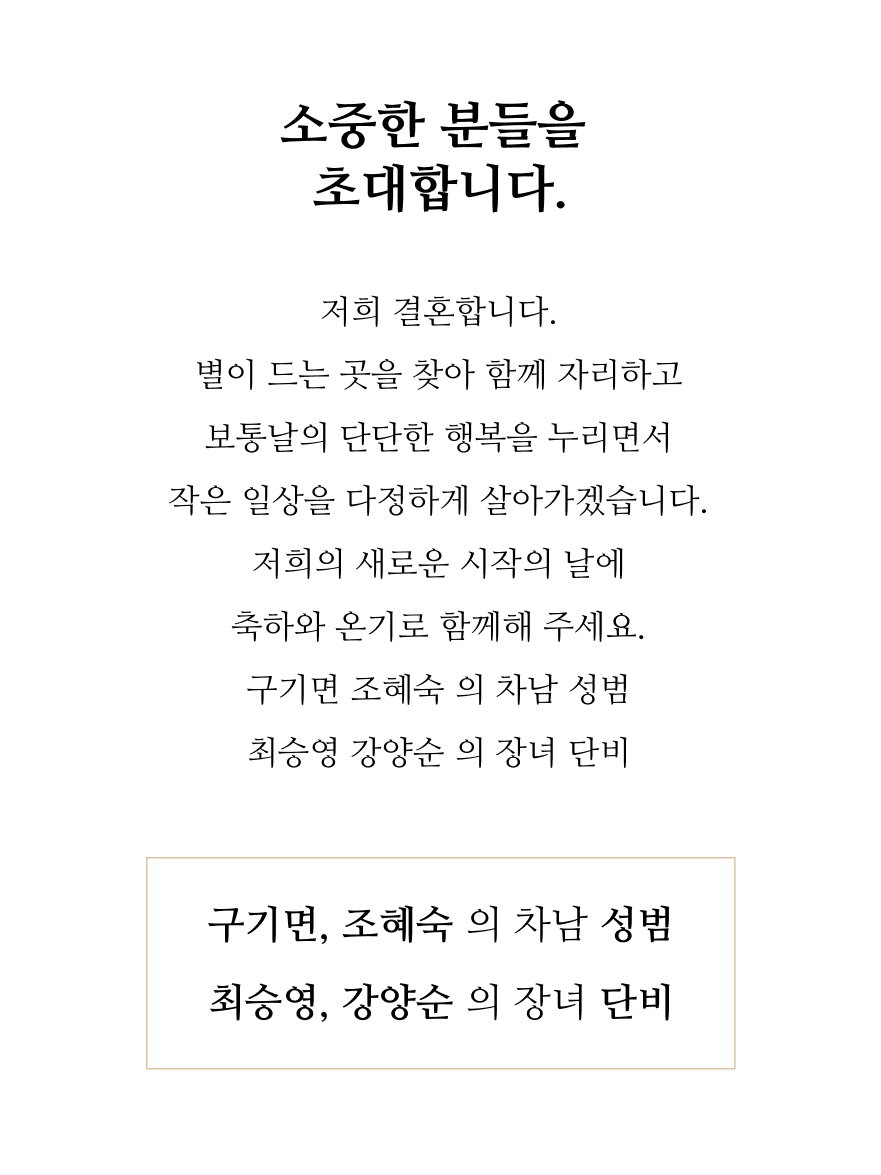
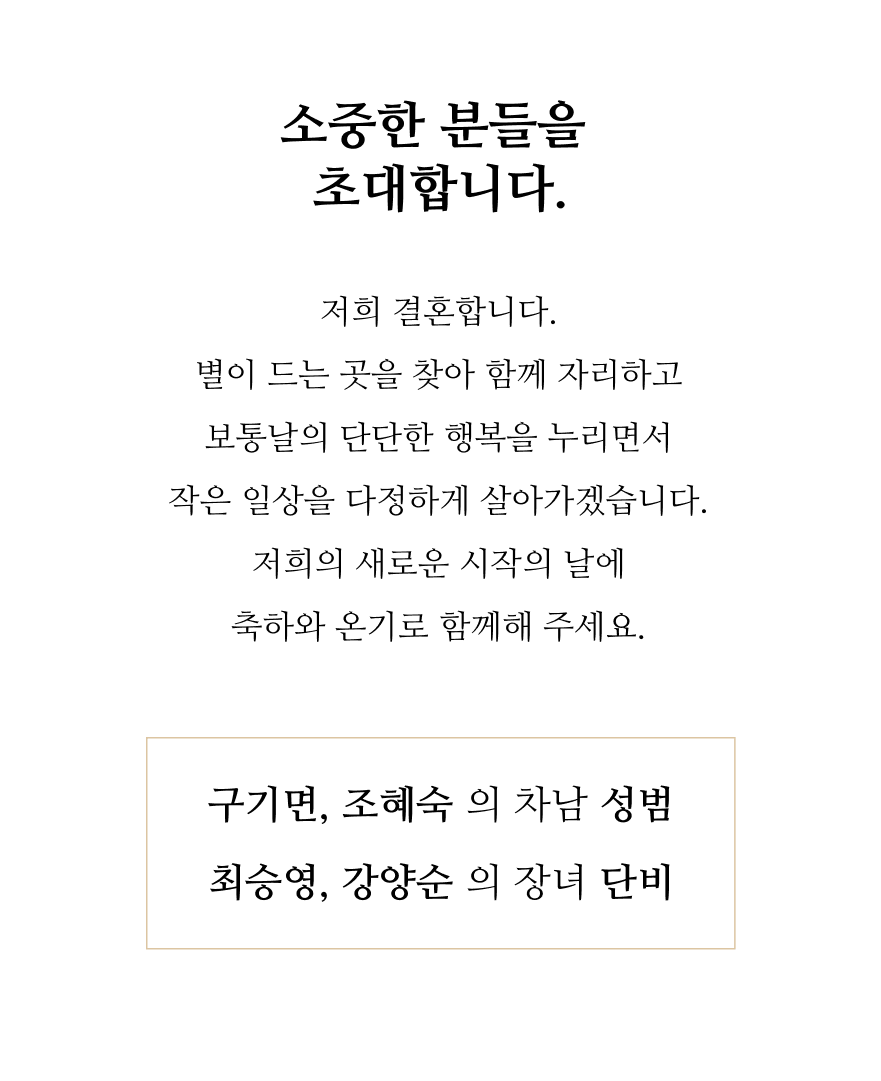
Add files via upload

Changed region(s): [[0.1839, 0.2442, 0.7968, 0.6716], [0.2452, 0.7021, 0.7662, 0.8853], [0.3065, 0.0916, 0.6742, 0.2137]]

diff --git a/index.html b/index.html
@@ -15,12 +15,14 @@
         <img class="img" src="image/section_2.png">
   </div>
     <div class="section_3">
-        <h1 class="title">마음을 전하실 곳</h1>
+        <h1 class="title">축하의 마음을 전하세요.</h1>
         <div class="bank_add_1">
-            <span class="name">구기면</span><button id="copybtn" onclick="copyToClipboard('106-02-065207');"  class="bank">우리은행  106-02-065207</button>
+            <img class="icon" src="image/icon_a.png">
+            <span class="name">신랑측</span><button id="myBtn_1"  class="bank">계좌번호 확인</button>
         </div>
         <div class="bank_add_2">
-            <span class="name">최승영</span><button id="copybtn" onclick="copyToClipboard('352-0119-4825');"  class="bank">농협은행  352-0119-4825</button>
+            <img class="icon" src="image/icon_b.png">
+            <span class="name">신부측</span><button id="myBtn_2"  class="bank">계좌번호 확인</button>
         </div> 
   </div>
     <div class="section">
@@ -45,6 +47,31 @@
         <h1 class="title"><br>오시는 길</h1>
         <img class="map" src="image/map_1.png">
   </div>
+    
+    <!-- The Modal 신랑 -->
+<div id="myModal_1" class="modal">
+  <!-- Modal content -->
+  <div class="modal-content">
+    <span class="close_1">&times;</span>
+      <p class="bank_add_t">신랑측</p>
+    <p class="bank_add_m">우리은행 106-02-065207</p>  
+    <button id="copybtn1" onclick="copyToClipboard('106-02-065207');"  class="bank">계좌번호 복사.</button>
+  </div>
+</div>
+    <!-- The Modal end -->
+    
+    <!-- The Modal 신부 -->
+<div id="myModal_2" class="modal">
+  <!-- Modal content -->
+  <div class="modal-content">
+    <span class="close_2">&times;</span>
+      <p class="bank_add_t">신부측</p>
+    <p class="bank_add_m">농협은행 352-0119-4825</p>
+    <button id="copybtn2" onclick="copyToClipboard('352-0119-4825');"  class="bank">계좌번호 복사.</button>
+  </div>
+</div>
+    <!-- The Modal end -->
+    
     <script>
     function copyToClipboard(val) {
     var t = document.createElement("textarea");
@@ -65,5 +92,66 @@
       alert('352-0119-4825 복사되었습니다');
     });
   </script>
+<script>
+// 신랑Get the modal
+var modala = document.getElementById("myModal_1");
+
+// Get the button that opens the modal
+var btna = document.getElementById("myBtn_1");
+
+// Get the <span> element that closes the modal
+var spana = document.getElementsByClassName("close_1")[0];
+
+// When the user clicks the button, open the modal 
+btna.onclick = function() {
+  modala.style.display = "block";
+}
+
+// When the user clicks on <span> (x), close the modal
+spana.onclick = function() {
+  modala.style.display = "none";
+}
+
+// When the user clicks anywhere outside of the modal, close it
+window.onclick = function(event) {
+  if (event.target == modal1) {
+    modala.style.display = "none";
+  }
+}
+// 신랑 Get the modal end
+
+</script>
+    
+<script>
+
+// 신부 Get the modal
+var modal = document.getElementById("myModal_2");
+
+// Get the button that opens the modal
+var btn = document.getElementById("myBtn_2");
+
+// Get the <span> element that closes the modal
+var span = document.getElementsByClassName("close_2")[0];
+
+// When the user clicks the button, open the modal 
+btn.onclick = function() {
+  modal.style.display = "block";
+}
+
+// When the user clicks on <span> (x), close the modal
+span.onclick = function() {
+  modal.style.display = "none";
+}
+
+// When the user clicks anywhere outside of the modal, close it
+window.onclick = function(event) {
+  if (event.target == modal) {
+    modal.style.display = "none";
+  }
+}
+
+// 신부 Get the modal end
+</script>
+    
 </body>
 </html>

diff --git a/css/style.css b/css/style.css
@@ -33,7 +33,6 @@
     text-align: center;
     margin-top: 20px;
     margin-bottom: 20px;
-    
 }
 .name{
     font-size: 5.5vw;
@@ -41,5 +40,48 @@
     font-weight: 600;
 }
 .bank{
-    font-size: 5.5vw;
+    font-size: 4.5vw;
+}
+
+.modal {
+  display: none; /* Hidden by default */
+  position: fixed; /* Stay in place */
+  z-index: 1; /* Sit on top */
+  padding-top: 100px; /* Location of the box */
+  left: 0;
+  top: 0;
+  width: 100%; /* Full width */
+  height: 100%; /* Full height */
+  overflow: auto; /* Enable scroll if needed */
+  background-color: rgb(0,0,0); /* Fallback color */
+  background-color: rgba(0,0,0,0.4); /* Black w/ opacity */
+}
+
+/* Modal Content */
+.modal-content {
+  background-color: #fefefe;
+  margin: auto;
+  padding: 20px;
+  border: 1px solid #888;
+  width: 80%;
+}
+
+.bank_add_m{
+    font-size: 5vw;
+}
+.bank_add_t{
+    font-size: 4vw;
+    color: #8E8EA9;
+}
+.icon{
+    position: absolute;
+    width: 8vw;
+    margin-left: -60px;
+}
+button {
+    outline-color: #ffffff;
+    border-radius: 100px;
+    padding: 4px 10px 4px 10px;
+    background-color: #EAEDFF;
+    color: #091ED2;
 }
